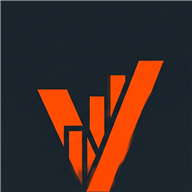
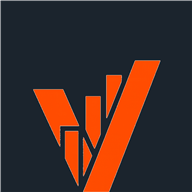
Re-extraer icono y watermark desde fuente en blanco (sin artefactos oscuros)

Changed region(s): [[0.1562, 0.3125, 0.875, 1.0], [0.0, 0.0, 1.0, 1.0]]

diff --git a/service-worker.js b/service-worker.js
@@ -1,4 +1,4 @@
-const CACHE_VERSION = 'v56';
+const CACHE_VERSION = 'v57';
 const CACHE_NAME = `fotos-informe-shell-${CACHE_VERSION}`;
 
 const APP_SHELL = [
